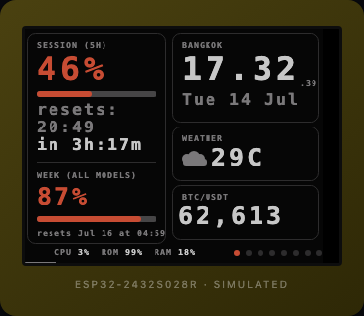
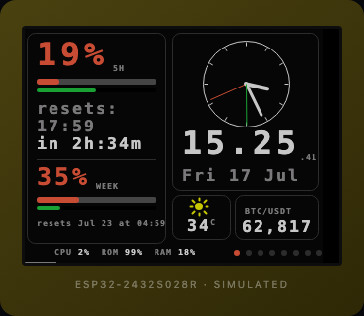
feat: prioritize reset line visibility on analog clock

diff --git a/simulator.html b/simulator.html
@@ -1054,16 +1054,6 @@ function drawAnalogClock(cx, cy, r, hour24, minute, second, haveReset, resetHour
     gfx.drawLine(x0, y0, x1, y1, COL_TEXT);
   }
 
-  // Session (5h) reset time: a thin green radius from center to rim, static
-  // (unlike the hands) at whatever hour/minute the session next resets.
-  if (haveReset) {
-    const resetAngle = ((resetHour24 % 12) + resetMinute / 60) * 30 - 90;
-    const resetRad = resetAngle * Math.PI / 180;
-    const rx = cx + Math.cos(resetRad) * (r - 2);
-    const ry = cy + Math.sin(resetRad) * (r - 2);
-    gfx.drawLine(cx, cy, rx, ry, COL_GOOD);
-  }
-
   const hourAngle = ((hour24 % 12) + minute / 60) * 30 - 90;
   const minAngle = (minute + second / 60) * 6 - 90;
   const secAngle = second * 6 - 90;
@@ -1084,6 +1074,17 @@ function drawAnalogClock(cx, cy, r, hour24, minute, second, haveReset, resetHour
   gfx.drawWideLine(cx, cy, mx, my, 1.5, COL_TEXT);
   gfx.drawLine(cx, cy, sx, sy, COL_ACCENT);
   gfx.fillCircle(cx, cy, 2, COL_TEXT);
+
+  // Session (5h) reset time: a thin green radius from center to rim, static
+  // (unlike the hands) at whatever hour/minute the session next resets.
+  // Floating on top of other hands.
+  if (haveReset) {
+    const resetAngle = ((resetHour24 % 12) + resetMinute / 60) * 30 - 90;
+    const resetRad = resetAngle * Math.PI / 180;
+    const rx = cx + Math.cos(resetRad) * (r - 2);
+    const ry = cy + Math.sin(resetRad) * (r - 2);
+    gfx.drawLine(cx, cy, rx, ry, COL_GOOD);
+  }
 }
 
 function drawStatusPage() {

diff --git a/firmware/cyd_dashboard/pages.cpp b/firmware/cyd_dashboard/pages.cpp
@@ -546,16 +546,6 @@ static void drawAnalogClock(int cx, int cy, int r, int hour24, int minute, int s
     g->drawLine(x0, y0, x1, y1, COL_TEXT);
   }
 
-  // Session (5h) reset time: a thin green radius from center to rim, static
-  // (unlike the hands) at whatever hour/minute the session next resets.
-  if (haveReset) {
-    float resetAngle = ((resetHour24 % 12) + resetMinute / 60.0f) * 30.0f - 90.0f;
-    float resetRad = resetAngle * PI / 180.0f;
-    int rx = cx + (int)(cosf(resetRad) * (r - 2));
-    int ry = cy + (int)(sinf(resetRad) * (r - 2));
-    g->drawLine(cx, cy, rx, ry, COL_GOOD);
-  }
-
   float hourAngle = ((hour24 % 12) + minute / 60.0f) * 30.0f - 90.0f;
   float minAngle = (minute + second / 60.0f) * 6.0f - 90.0f;
   float secAngle = second * 6.0f - 90.0f;
@@ -576,6 +566,17 @@ static void drawAnalogClock(int cx, int cy, int r, int hour24, int minute, int s
   g->drawWideLine(cx, cy, mx, my, 1.5f, COL_TEXT);
   g->drawLine(cx, cy, sx, sy, COL_ACCENT);
   g->fillCircle(cx, cy, 2, COL_TEXT);
+
+  // Session (5h) reset time: a thin green radius from center to rim, static
+  // (unlike the hands) at whatever hour/minute the session next resets.
+  // Floating on top of other hands.
+  if (haveReset) {
+    float resetAngle = ((resetHour24 % 12) + resetMinute / 60.0f) * 30.0f - 90.0f;
+    float resetRad = resetAngle * PI / 180.0f;
+    int rx = cx + (int)(cosf(resetRad) * (r - 2));
+    int ry = cy + (int)(sinf(resetRad) * (r - 2));
+    g->drawLine(cx, cy, rx, ry, COL_GOOD);
+  }
 }
 
 // Card layout: one tall left card = session/week limits (always accent
